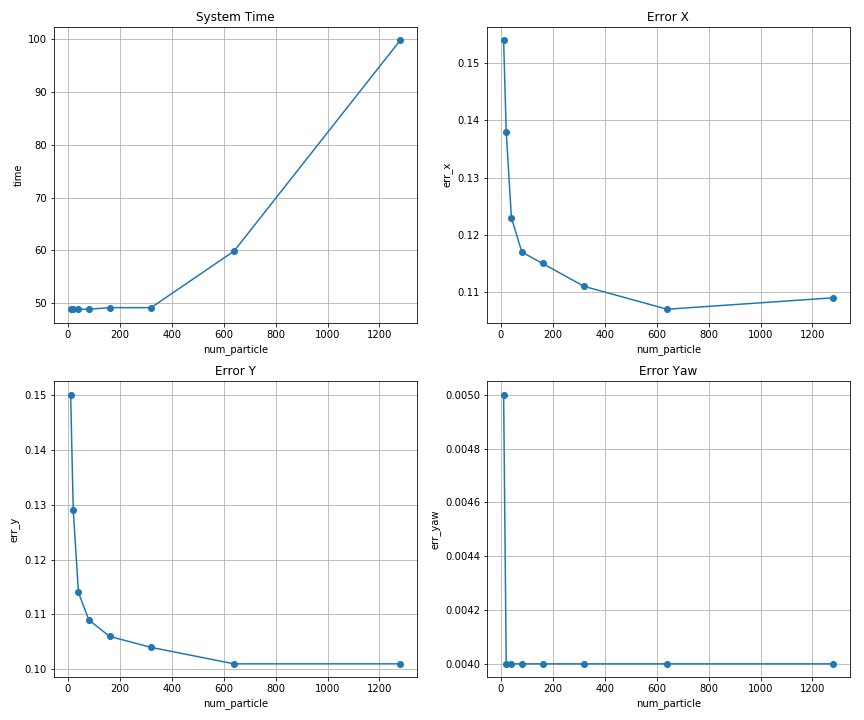
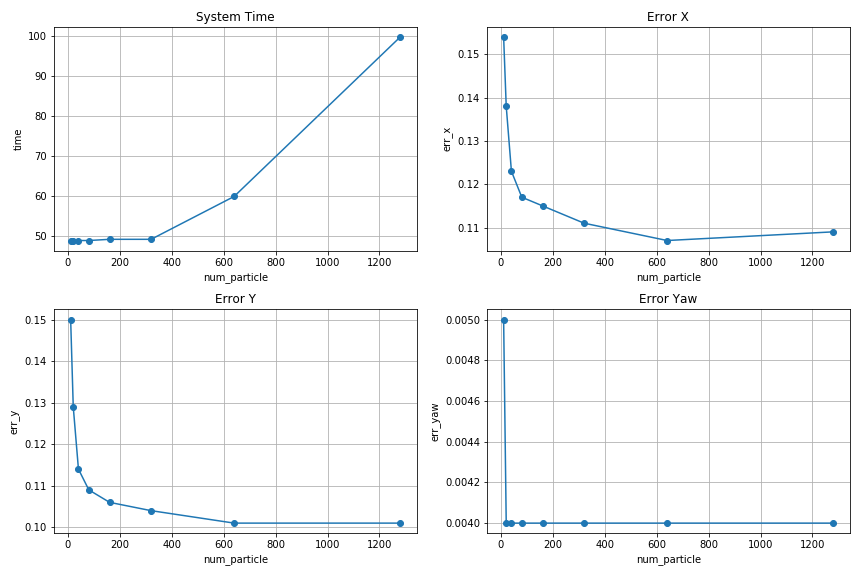
minor update

diff --git a/README.md b/README.md
@@ -11,7 +11,8 @@ The next step is called resampling. A new set of particles is selected with the 
 
 ## Initialization
 The location is initialized with the GPS measurement. Random particles are generated around the measured location.
-The number of particles is decided to 320 from following result.
+The number of particles is decided to 320 by investigating the system time and errors as function of the number of particles.
+Following plot shows that the system time does not increase significantly until the number of particle is 320, while the errors are within 3% of the values with 1280 particles.
 
 ![alt_text][imageNumParticle]
 
